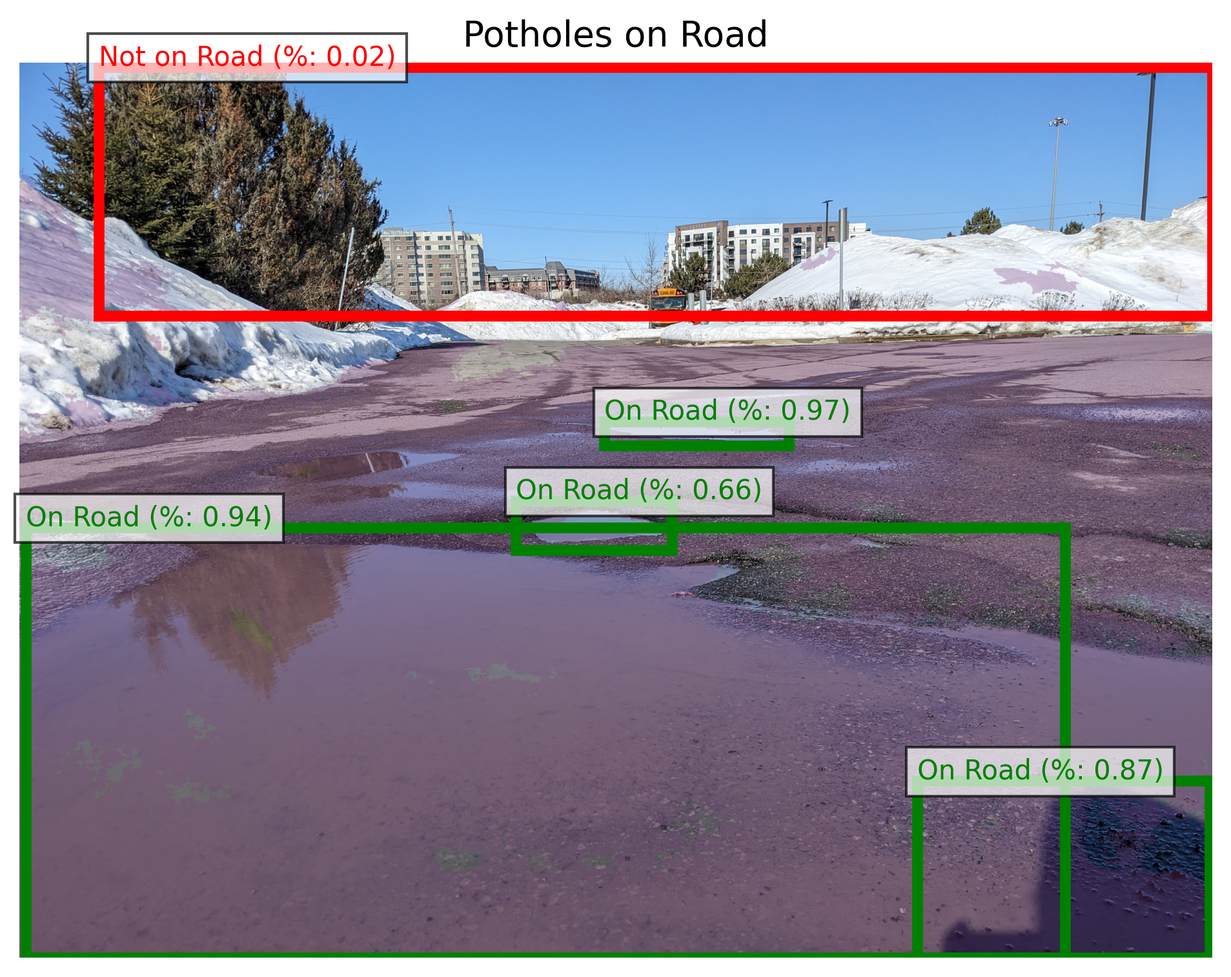
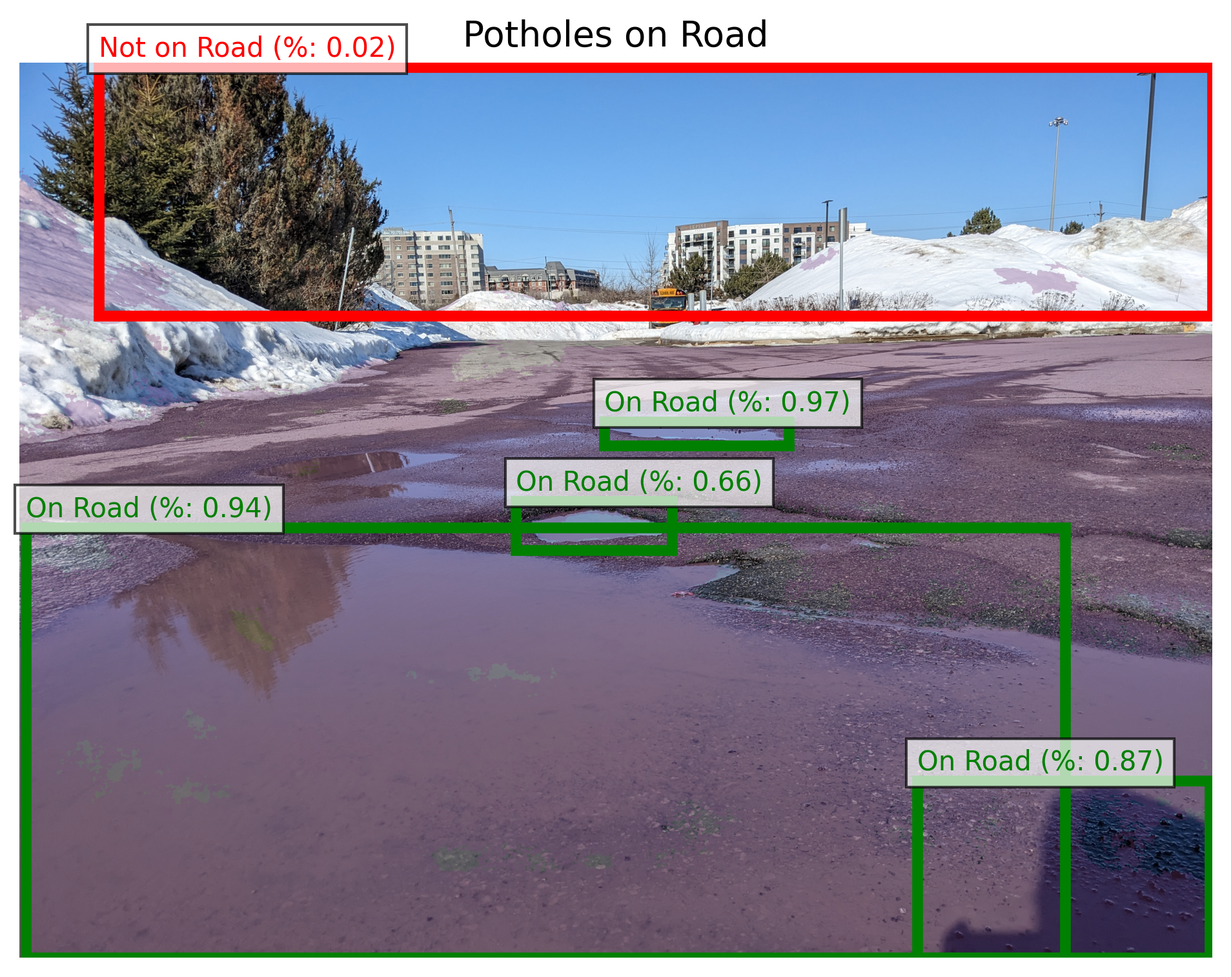
area estimation pipeline stage, small visualization modifs

diff --git a/pipeline/area_estimation_stage.py b/pipeline/area_estimation_stage.py
@@ -1,19 +1,38 @@
 import os
-from PIL import Image
 
-class RoadSegmentationStage:
-    """Stage 4: Estimate the area of the detected potholes"""
+class AreaEstimationStage:
+    """Stage 4: Estimate the area of the detected potholes
+       
+       The area estimation is done by using the bounding box area.
+       This does not provide an accurate area of the actual pothole BUT
+       allows us to gain a relative understanding of how big the pothole is compared to others.
+       The function used to calculate the scaling factor to multiply the bounding box area
+       is a found by fitting a curve to data points (see section modules/area_estimation/ for more details).
+    """
     
     def __init__(self, road_segmenter):
         self.segmenter = road_segmenter
     
-    def process(self, image_path):
-        print(f"[Stage 2] Segmenting road in {os.path.basename(image_path)}")
+    def process(self, img_path, filtered_detections):
+        print(f"[Stage 4] Estimating relative area of pothole {os.path.basename(img_path)}")
         
-        # Get the image from stage 1
-        image = Image.open(image_path).convert('RGB')
+        pothole_areas = []
 
-        # Perform road segmentation
-        road_mask, full_segmentation = self.segmenter.segment_image(image)
+        a = -0.00022788150560381466
+        b = -249.57544427170112
+        c = 0.6036184827412467
+        d = -0.00036558500089469364
 
-        return {'road_mask': road_mask, 'full_segmentation': full_segmentation}
+        for _, bbox, is_on_road, _ in filtered_detections:
+            area = 0
+            if (is_on_road):
+                x1, y1, x2, y2 = bbox
+                bounding_box_area = (x2-x1)*(y2-y1)
+                y_distance_middle_pothole = (y1+y2)/2
+                scaling_factor = a/(b + c*y_distance_middle_pothole + d*(y_distance_middle_pothole**2))
+                area = scaling_factor * bounding_box_area
+
+                pothole_areas.append(area)
+            print(f"Area of pothole: {area}")
+
+        return pothole_areas

diff --git a/utils_lib/visualization.py b/utils_lib/visualization.py
@@ -74,7 +74,7 @@ def visualize_pipeline_results(pipeline_output, save_path):
             label = f"Pothole (confidence: {confidence:.2f})"
         else:
             label = f"{classType} (confidence: {confidence:.2f})"
-        ax[0, 1].text(x1, y1-5, label, color='blue', fontsize=8,
+        ax[0, 1].text(x1, y1-35, label, color='blue', fontsize=8,
                   bbox=dict(facecolor='white', alpha=0.7))
     
     # 2. Full Segmentation
@@ -132,7 +132,7 @@ def visualize_pipeline_results(pipeline_output, save_path):
         rect = plt.Rectangle((x1, y1), x2-x1, y2-y1, fill=False, 
                             edgecolor=color, linewidth=4)
         ax[1, 2].add_patch(rect)
-        ax[1, 2].text(x1, y1-5, label, color=color, fontsize=10,
+        ax[1, 2].text(x1, y1-35, label, color=color, fontsize=10,
                   bbox=dict(facecolor='white', alpha=0.7))
     
     plt.tight_layout()
@@ -169,7 +169,7 @@ def visualize_pipeline_results(pipeline_output, save_path):
             label = f"Pothole (confidence: {confidence:.2f})"
         else:
             label = f"{classType} (confidence: {confidence:.2f})"
-        ax2.text(x1, y1-5, label, color='blue', fontsize=8,
+        ax2.text(x1, y1-35, label, color='blue', fontsize=8,
                  bbox=dict(facecolor='white', alpha=0.7))
     
     plt.savefig(os.path.join(save_path, f'{image_name}_original_detections.png'), dpi=300, bbox_inches='tight')
@@ -211,7 +211,7 @@ def visualize_pipeline_results(pipeline_output, save_path):
         rect = plt.Rectangle((x1, y1), x2-x1, y2-y1, fill=False, 
                             edgecolor=color, linewidth=4)
         ax5.add_patch(rect)
-        ax5.text(x1, y1-5, label, color=color, fontsize=10,
+        ax5.text(x1, y1-35, label, color=color, fontsize=10,
                  bbox=dict(facecolor='white', alpha=0.7))
     
     plt.savefig(os.path.join(save_path, f'{image_name}_filtered_detections.png'), dpi=300, bbox_inches='tight')

diff --git a/main.py b/main.py
@@ -5,7 +5,7 @@ from PIL import Image
 from config import Config # config file
 # import models, pipeline stages, visualization functions and utils required by DeepLabV3+
 from modules import RoadSegmentation, PotholeDetection
-from pipeline import PotholeDetectionStage, RoadSegmentationStage, PotholeFilteringStage
+from pipeline import PotholeDetectionStage, RoadSegmentationStage, PotholeFilteringStage, AreaEstimationStage
 from utils_lib.visualization import visualize_pipeline_results, create_results_file
 from utils_lib.io_utils import get_image_files
 
@@ -36,8 +36,8 @@ def main():
     detection_stage = PotholeDetectionStage(pothole_detector)
     segmentation_stage = RoadSegmentationStage(road_segmenter)
     filtering_stage = PotholeFilteringStage(Config)
+    area_estimation_stage = AreaEstimationStage(Config)
     
-    # 
     image_files = get_image_files(Config.INPUT_PATH)
     if not image_files:
         print(f"No images found in {Config.INPUT_PATH}")
@@ -59,6 +59,9 @@ def main():
             
             # Stage 3: Filter Potholes
             filtered_detections = filtering_stage.process(img_path, pothole_detections, road_segmentation)
+
+            # Stage 4: Area Estimation
+            pothole_areas = area_estimation_stage.process(img_path, filtered_detections)
             
             process_time = time() - start_time
             print(f"Processing completed in {process_time:.2f} seconds")

diff --git a/pipeline/pothole_filtering_stage.py b/pipeline/pothole_filtering_stage.py
@@ -1,15 +1,18 @@
 import os
-import numpy as np
 
 class PotholeFilteringStage:
-    """Stage 3: Filter pothole detections based on road segmentation"""
+    """Stage 3: Filter pothole detections based on road segmentation
+       
+       Filtering is done by checking if majority of sampled pixel points in a given
+       pothole bounding box are classified as road. If >= MIN_PIXELS_ROAD_THRESHOLD
+       are on the road => pothole is considered to be on the road.
+    """
     
     def __init__(self, config):
         self.min_road_threshold = config.MIN_PIXELS_ROAD_THRESHOLD
     
     def process(self, img_path, pothole_detections, road_segmentations):
-        image_path = img_path
-        print(f"[Stage 3] Filtering potholes in {os.path.basename(image_path)}")
+        print(f"[Stage 3] Filtering potholes in {os.path.basename(img_path)}")
         
         # Get road mask and detections from previous stages
         # full_segmentation = road_segmentations['full_segmentation']
@@ -44,7 +47,7 @@ class PotholeFilteringStage:
             
             # Better method
             # checks a range of points within the bounding box
-            # if minimum 75% are = road => assume pothole is on the road
+            # if minimum 60% are = road => assume pothole is on the road
             total_num_points = 0
             num_points_on_road = 0
             step = 20

diff --git a/pipeline/pothole_detection_stage.py b/pipeline/pothole_detection_stage.py
@@ -2,7 +2,11 @@ import os
 import cv2
 
 class PotholeDetectionStage:
-    """Stage 1: Detect potholes in images"""
+    """Stage 1: Detect potholes in images
+       
+       Pothole detection is done by using the YOLOv5s model trained on custom pothole dataset.
+       The custom trained weights are loaded and used to detect potholes in the image.
+    """
     
     def __init__(self, pothole_detector):
         self.detector = pothole_detector
@@ -11,13 +15,8 @@ class PotholeDetectionStage:
         print(f"[Stage 1] Detecting potholes in {os.path.basename(image_path)}")
         
         if image_path.endswith(".jpg") or image_path.endswith(".png"):
+            image = cv2.imread(image_path) # load image            
+            detections = self.detector.detect(image) # detect potholes
 
-            # Load image            
-            image = cv2.imread(image_path)
-
-            # Detect potholes
-            detections = self.detector.detect(image)
-
-            # Return results
             return detections
             

diff --git a/pipeline/road_segmentation_stage.py b/pipeline/road_segmentation_stage.py
@@ -2,7 +2,11 @@ import os
 from PIL import Image
 
 class RoadSegmentationStage:
-    """Stage 2: Segment the road in the image"""
+    """Stage 2: Segment the road in the image
+    
+       Road segmentation is done by using the DeepLabV3+ model trained on Cityscapes dataset.
+       Both the full Cityscapes and binary road mask are returned.
+    """
     
     def __init__(self, road_segmenter):
         self.segmenter = road_segmenter
@@ -10,10 +14,8 @@ class RoadSegmentationStage:
     def process(self, image_path):
         print(f"[Stage 2] Segmenting road in {os.path.basename(image_path)}")
         
-        # Get the image from stage 1
         image = Image.open(image_path).convert('RGB')
 
-        # Perform road segmentation
-        road_mask, full_segmentation = self.segmenter.segment_image(image)
+        road_mask, full_segmentation = self.segmenter.segment_image(image) # road segmentation
 
         return {'road_mask': road_mask, 'full_segmentation': full_segmentation}

diff --git a/config.py b/config.py
@@ -33,7 +33,7 @@ class Config:
     NUM_CLASSES = 19  # Cityscapes
     
     # Pothole filtering configuration
-    MIN_PIXELS_ROAD_THRESHOLD = 0.50  # Minimum percentage of pixels in bounding box area to be considered as a pothole on the road
+    MIN_PIXELS_ROAD_THRESHOLD = 0.60  # Minimum percentage of pixels in bounding box area to be considered as a pothole on the road
     
     # Device configuration
     GPU_ID = "0"

diff --git a/pipeline/__init__.py b/pipeline/__init__.py
@@ -1,3 +1,4 @@
 from .pothole_detection_stage import PotholeDetectionStage
 from .road_segmentation_stage import RoadSegmentationStage
 from .pothole_filtering_stage import PotholeFilteringStage
+from .area_estimation_stage import AreaEstimationStage
